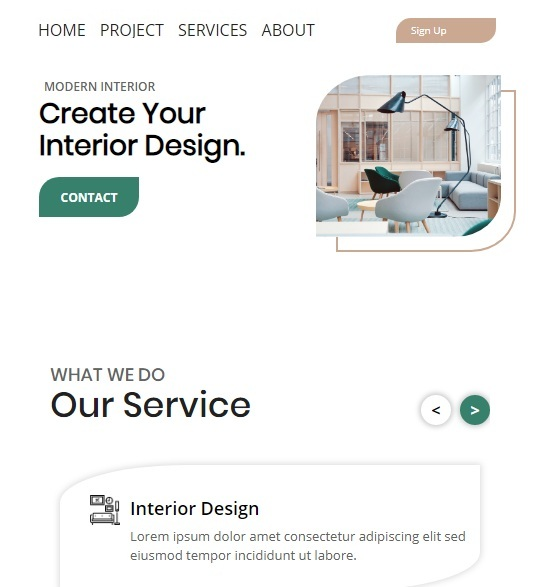
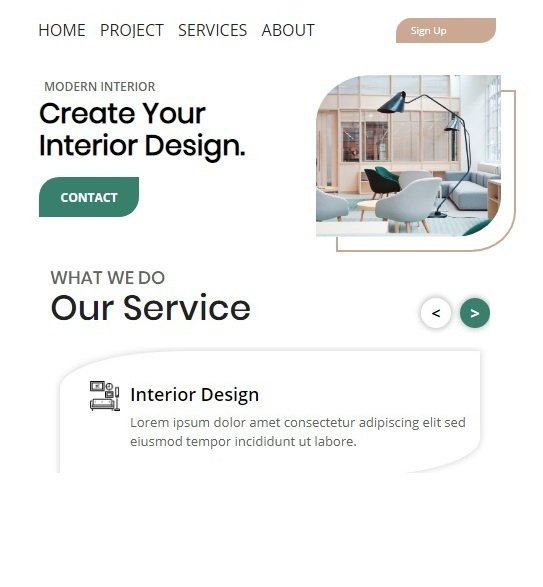
Блок принципов работы + адаптив

diff --git a/index.html b/index.html
@@ -109,8 +109,7 @@
                 <div class="item-title">Адаптивность</div>
                 <div class="item-underline"></div>
                 <p class="item-description">
-                    Ваш сайт будет корректно отображаться на экранах всех смартфонов, планшетов и ПК. Все для удобство Ваших клиентов и
-                    максимальной прибыли Вашего бизнеса.
+                    Ваш сайт будет корректно отображаться на экранах всех смартфонов, планшетов и ПК. Все для удобство Ваших клиентов.
                 </p>
             </div>
             <div class="anim-item sites-wrapper__item">
@@ -185,6 +184,29 @@
                 </div>
                 <img src="./img/back.png" alt="" class="slider-btn back-btn" id = "slider-2-back-btn">
                 <img src="./img/next.png" alt="" class="slider-btn next-btn" id = "slider-2-next-btn">
+            </div>
+        </div>
+    </section>
+    <!--Advantages-->
+    <section class = "section colored-sect">
+        <h1 class="title">Принципы работы</h1>
+        <div class="anim-item title-underline"></div>
+        <div class="work-wrapper">
+            <div class="work-item anim-item">
+                <h2 class="work-item__number">01.</h2>
+                <h3 class="work-item__title">Максимальная вовлеченность в ваш бизнес</h3>
+            </div>
+            <div class="work-item anim-item">
+                <h2 class="work-item__number">02.</h2>
+                <h3 class="work-item__title">Постоянная обратная связь в удобных для Вас каналах коммуникации</h3>
+            </div>
+            <div class="work-item anim-item">
+                <h2 class="work-item__number">03.</h2>
+                <h3 class="work-item__title">Гибкая система оплаты</h3>
+            </div>
+            <div class="work-item anim-item">
+                <h2 class="work-item__number">04.</h2>
+                <h3 class="work-item__title">Обучение работы с сайтом</h3>
             </div>
         </div>
     </section>

diff --git a/css/style.css b/css/style.css
@@ -345,6 +345,7 @@ template {
 * {
   -webkit-box-sizing: border-box;
           box-sizing: border-box;
+  word-wrap: break-word;
 }
 
 .section {
@@ -1082,5 +1083,98 @@ template {
 @media screen and (max-width: 400px) {
   .case__img {
     display: none;
+  }
+}
+.work-wrapper {
+  display: -webkit-box;
+  display: -ms-flexbox;
+  display: flex;
+  -ms-flex-pack: distribute;
+      justify-content: space-around;
+  font-family: "Roboto Slab", serif;
+}
+
+.work-item {
+  -ms-flex-preferred-size: 20%;
+      flex-basis: 20%;
+  display: -webkit-box;
+  display: -ms-flexbox;
+  display: flex;
+  -webkit-box-orient: vertical;
+  -webkit-box-direction: normal;
+      -ms-flex-direction: column;
+          flex-direction: column;
+  border: 1px solid #ffffff;
+  border-radius: 10%;
+  font-size: 18px;
+  padding: 25px 15px;
+  background-color: #00000060;
+  -webkit-transform: translateY(-50px);
+          transform: translateY(-50px);
+  opacity: 0;
+  -webkit-transition: all 0.7s ease;
+  transition: all 0.7s ease;
+}
+.work-item.anim-active {
+  -webkit-transform: translateY(0px);
+          transform: translateY(0px);
+  opacity: 1;
+}
+.work-item:hover {
+  -webkit-transform: translateY(30px);
+          transform: translateY(30px);
+  background-color: #E29049;
+}
+.work-item__number {
+  padding: 0;
+  margin: 0;
+  display: block;
+  font-size: 24px;
+  -ms-flex-item-align: center;
+      align-self: center;
+  color: #fff;
+  margin-bottom: 20px;
+}
+.work-item__title {
+  padding: 0;
+  margin: 0;
+  color: #fff;
+  text-align: center;
+}
+
+@media screen and (max-width: 1200px) {
+  .work-item {
+    -ms-flex-preferred-size: 23%;
+        flex-basis: 23%;
+    -ms-flex-wrap: wrap;
+        flex-wrap: wrap;
+  }
+}
+@media screen and (max-width: 1000px) {
+  .work-wrapper {
+    display: -webkit-box;
+    display: -ms-flexbox;
+    display: flex;
+    -ms-flex-wrap: wrap;
+        flex-wrap: wrap;
+  }
+
+  .work-item {
+    -ms-flex-preferred-size: 40%;
+        flex-basis: 40%;
+    min-height: 220px;
+    margin-top: 20px;
+  }
+}
+@media screen and (max-width: 800px) {
+  .work-item {
+    -ms-flex-preferred-size: 46%;
+        flex-basis: 46%;
+  }
+}
+@media screen and (max-width: 500px) {
+  .work-item {
+    -ms-flex-preferred-size: 95%;
+        flex-basis: 95%;
   }
 }/*# sourceMappingURL=style.css.map */

diff --git a/sass/_work-conditions.sass b/sass/_work-conditions.sass
@@ -1,0 +1,53 @@
+.work-wrapper
+    display: flex
+    justify-content: space-around
+    font-family: 'Roboto Slab', serif
+.work-item
+    flex-basis: 20%
+    display: flex
+    flex-direction: column
+    border: 1px solid #ffffff
+    border-radius: 10%
+    font-size: 18px
+    padding: 25px 15px
+    background-color: #00000060
+    transform: translateY(-50px)
+    opacity: 0
+    transition: all 0.7s ease
+    &.anim-active
+        transform: translateY(0px)
+        opacity: 1
+    &:hover
+        transform: translateY(30px)
+        background-color: $third
+    &__number
+        padding: 0
+        margin: 0
+        display: block
+        font-size: 24px
+        align-self: center
+        color: #fff
+        margin-bottom: 20px
+    &__title
+        padding: 0
+        margin: 0
+        color: #fff
+        text-align: center
+@media screen and ( max-width: 1200px )
+    .work-item
+        flex-basis: 23%
+        flex-wrap: wrap
+@media screen and ( max-width: 1000px )
+    .work-wrapper
+        display: flex
+        flex-wrap: wrap
+    .work-item
+        flex-basis: 40%
+        min-height: 220px
+        margin-top: 20px
+@media screen and ( max-width: 800px )
+    .work-item
+        flex-basis: 46%
+@media screen and ( max-width: 500px )
+    .work-item
+        flex-basis: 95%

diff --git a/sass/_general.sass b/sass/_general.sass
@@ -2,14 +2,10 @@
 $first: #C1C8C7
 $second: #252B31
 $third: #E29049
-//$first: rgb(182, 121, 41)
-//$second:rgb(163, 172, 177)
-//$third:rgb(60, 91, 116)
-//$fourth:rgb(38, 75, 119)
-//$fifth:rgb(0, 36, 63)
 
 *
     box-sizing: border-box
+    word-wrap: break-word
 .section
     width: 100%
     min-height: 500px

diff --git a/sass/style.sass b/sass/style.sass
@@ -10,3 +10,4 @@
 @import 'about-me'
 @import 'offer'
 @import 'cases'
+@import 'work-conditions'
